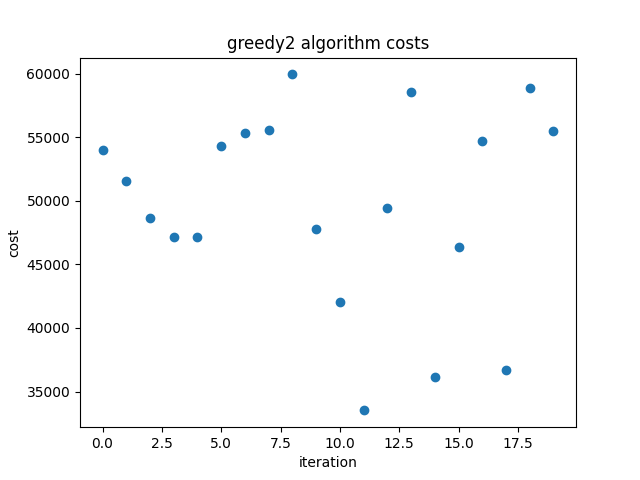
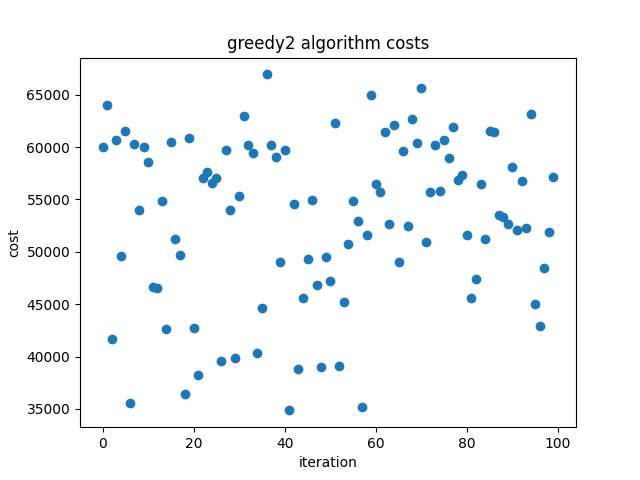
greedy2

diff --git a/code/algorithms/baseline.py b/code/algorithms/baseline.py
@@ -11,13 +11,26 @@ class Baseline:
     def __init__(self, grid):
         self.grid = copy.deepcopy(grid)
 
+    def largest_output_house(self):
+        output_houses = {}
+        for house in self.grid.houses.values():
+            output_houses[house.id] = house.max_output
+
+        output_houses = {k: v for k, v in sorted(output_houses.items(), key=lambda item: item[1], reverse=True)}    
+        
+        return output_houses
+
 
     def run(self):
         random.shuffle(self.grid.houses)
+        output_houses = self.largest_output_house()
 
-        for house in self.grid.houses.values():
+        for house_id in output_houses:
+            house_output = output_houses[house_id]
             random_battery = random.choice(self.grid.batteries)
 
+
+            # print(house_obj.max_output)
             # cum_max_output = 1500 * 5 = 7500
             # cum_cap = 1507 * 5 = 7535
             # keep picking a random battery until you've found one that has enough space
@@ -25,16 +38,16 @@ class Baseline:
             
             # while random_battery.capacity_reached():
             #     random_battery = random.choice(self.grid.batteries)
-            while random_battery.capacity_left() < house.max_output:
+            while random_battery.capacity_left() < house_output:
                 random_battery = random.choice(self.grid.batteries)
                 if random_battery.capacity_left() < 60:
-                    print(random_battery.id, 'is:', random_battery.capacity_left(), 'and', house.max_output)
+                    print(random_battery.id, 'is:', random_battery.capacity_left(), 'and', house_output)
             
-            random_battery.add_house(house)
-            house.battery = random_battery.id
-            cable1 = cable.Cable(house = house, battery = random_battery)
+            random_battery.add_house(self.grid.houses[house_id])
+            self.grid.houses[house_id].battery = random_battery.id
+            cable1 = cable.Cable(house = self.grid.houses[house_id], battery = random_battery)
             cable1.lay_cable()
-            house.add_cable(cable1)
+            self.grid.houses[house_id].add_cable(cable1)
 
             # for battery in self.grid.batteries.values():
             #     print(battery.get_cum_output())

diff --git a/main.py b/main.py
@@ -19,16 +19,16 @@ if __name__ == "__main__":
     grid1 = grid.Grid(house_file, battery_file)
 
     # --------------------------- baseline --------------------------
-    # baseline_costs = list()
-    # for i in range(10):
-    #     baseline1 = baseline.Baseline(grid1)
-    #     baseline1.run()
-    #     best_base = copy.deepcopy(baseline1)
-    #     baseline_costs.append(baseline1.grid.calc_cost())
-    #     if baseline1.grid.is_valid():
-    #         print("hurray")
+    baseline_costs = list()
+    for i in range(10):
+        baseline1 = baseline.Baseline(grid1)
+        baseline1.run()
+        best_base = copy.deepcopy(baseline1)
+        baseline_costs.append(baseline1.grid.calc_cost())
+        if baseline1.grid.is_valid():
+            print("hurray")
     
-    # visualise_costs.visualise_costs(random_costs, "random")
+    visualise_costs.visualise_costs(random_costs, "random")
 
     # for i in range(100):
     #     baseline1 = baseline.Baseline(grid1)
@@ -72,18 +72,19 @@ if __name__ == "__main__":
     #     pickle.dump(best_greedy, handle)
 
     # --------------------------- greedy 2 --------------------------
-    greedy2_costs = list()
-    
-    for i in range(20):
-        greedy2 = greedy.Greedy(grid1)
-        greedy2.run_greedy()
-        # fixed_greedy = fix_greedy.Fix_greedy(greedy2.grid)
-        # fixed_greedy.run3()
-        if greedy2.grid.is_valid():
-             print("hurray")
-        greedy2_costs.append(greedy2.grid.calc_cost())
-
-    visualise_costs.visualise_costs(greedy2_costs, "greedy2")
+    # greedy2_costs = list()
+    # count = 0
+    # for i in range(100):
+    #     greedy2 = greedy.Greedy(grid1)
+    #     greedy2.run_greedy()
+    #     # fixed_greedy = fix_greedy.Fix_greedy(greedy2.grid)
+    #     # fixed_greedy.run3()
+    #     if greedy2.grid.is_valid():
+    #          print("hurray")
+    #          count += 1
+    #     greedy2_costs.append(greedy2.grid.calc_cost())
+    # print(count)
+    # visualise_costs.visualise_costs(greedy2_costs, "greedy2")
 
 
     # --------------------------- Hill Climber ---------------------------------

diff --git a/code/algorithms/greedy.py b/code/algorithms/greedy.py
@@ -106,11 +106,11 @@ class Greedy:
             cable1.lay_cable()
             house.add_cable(cable1)
             
-        for battery in self.grid.batteries.values():
-                print(battery.get_cum_output())
-        print('Output to batteries:')
-        check_capacity = any(battery.capacity_reached() in self.grid.batteries for battery in self.grid.batteries.values())
-        if check_capacity == False:
-            print('Good')
+        # for battery in self.grid.batteries.values():
+        #         print(battery.get_cum_output())
+        # print('Output to batteries:')
+        # check_capacity = any(battery.capacity_reached() in self.grid.batteries for battery in self.grid.batteries.values())
+        # if check_capacity == False:
+        #     print('Good')
 
 
